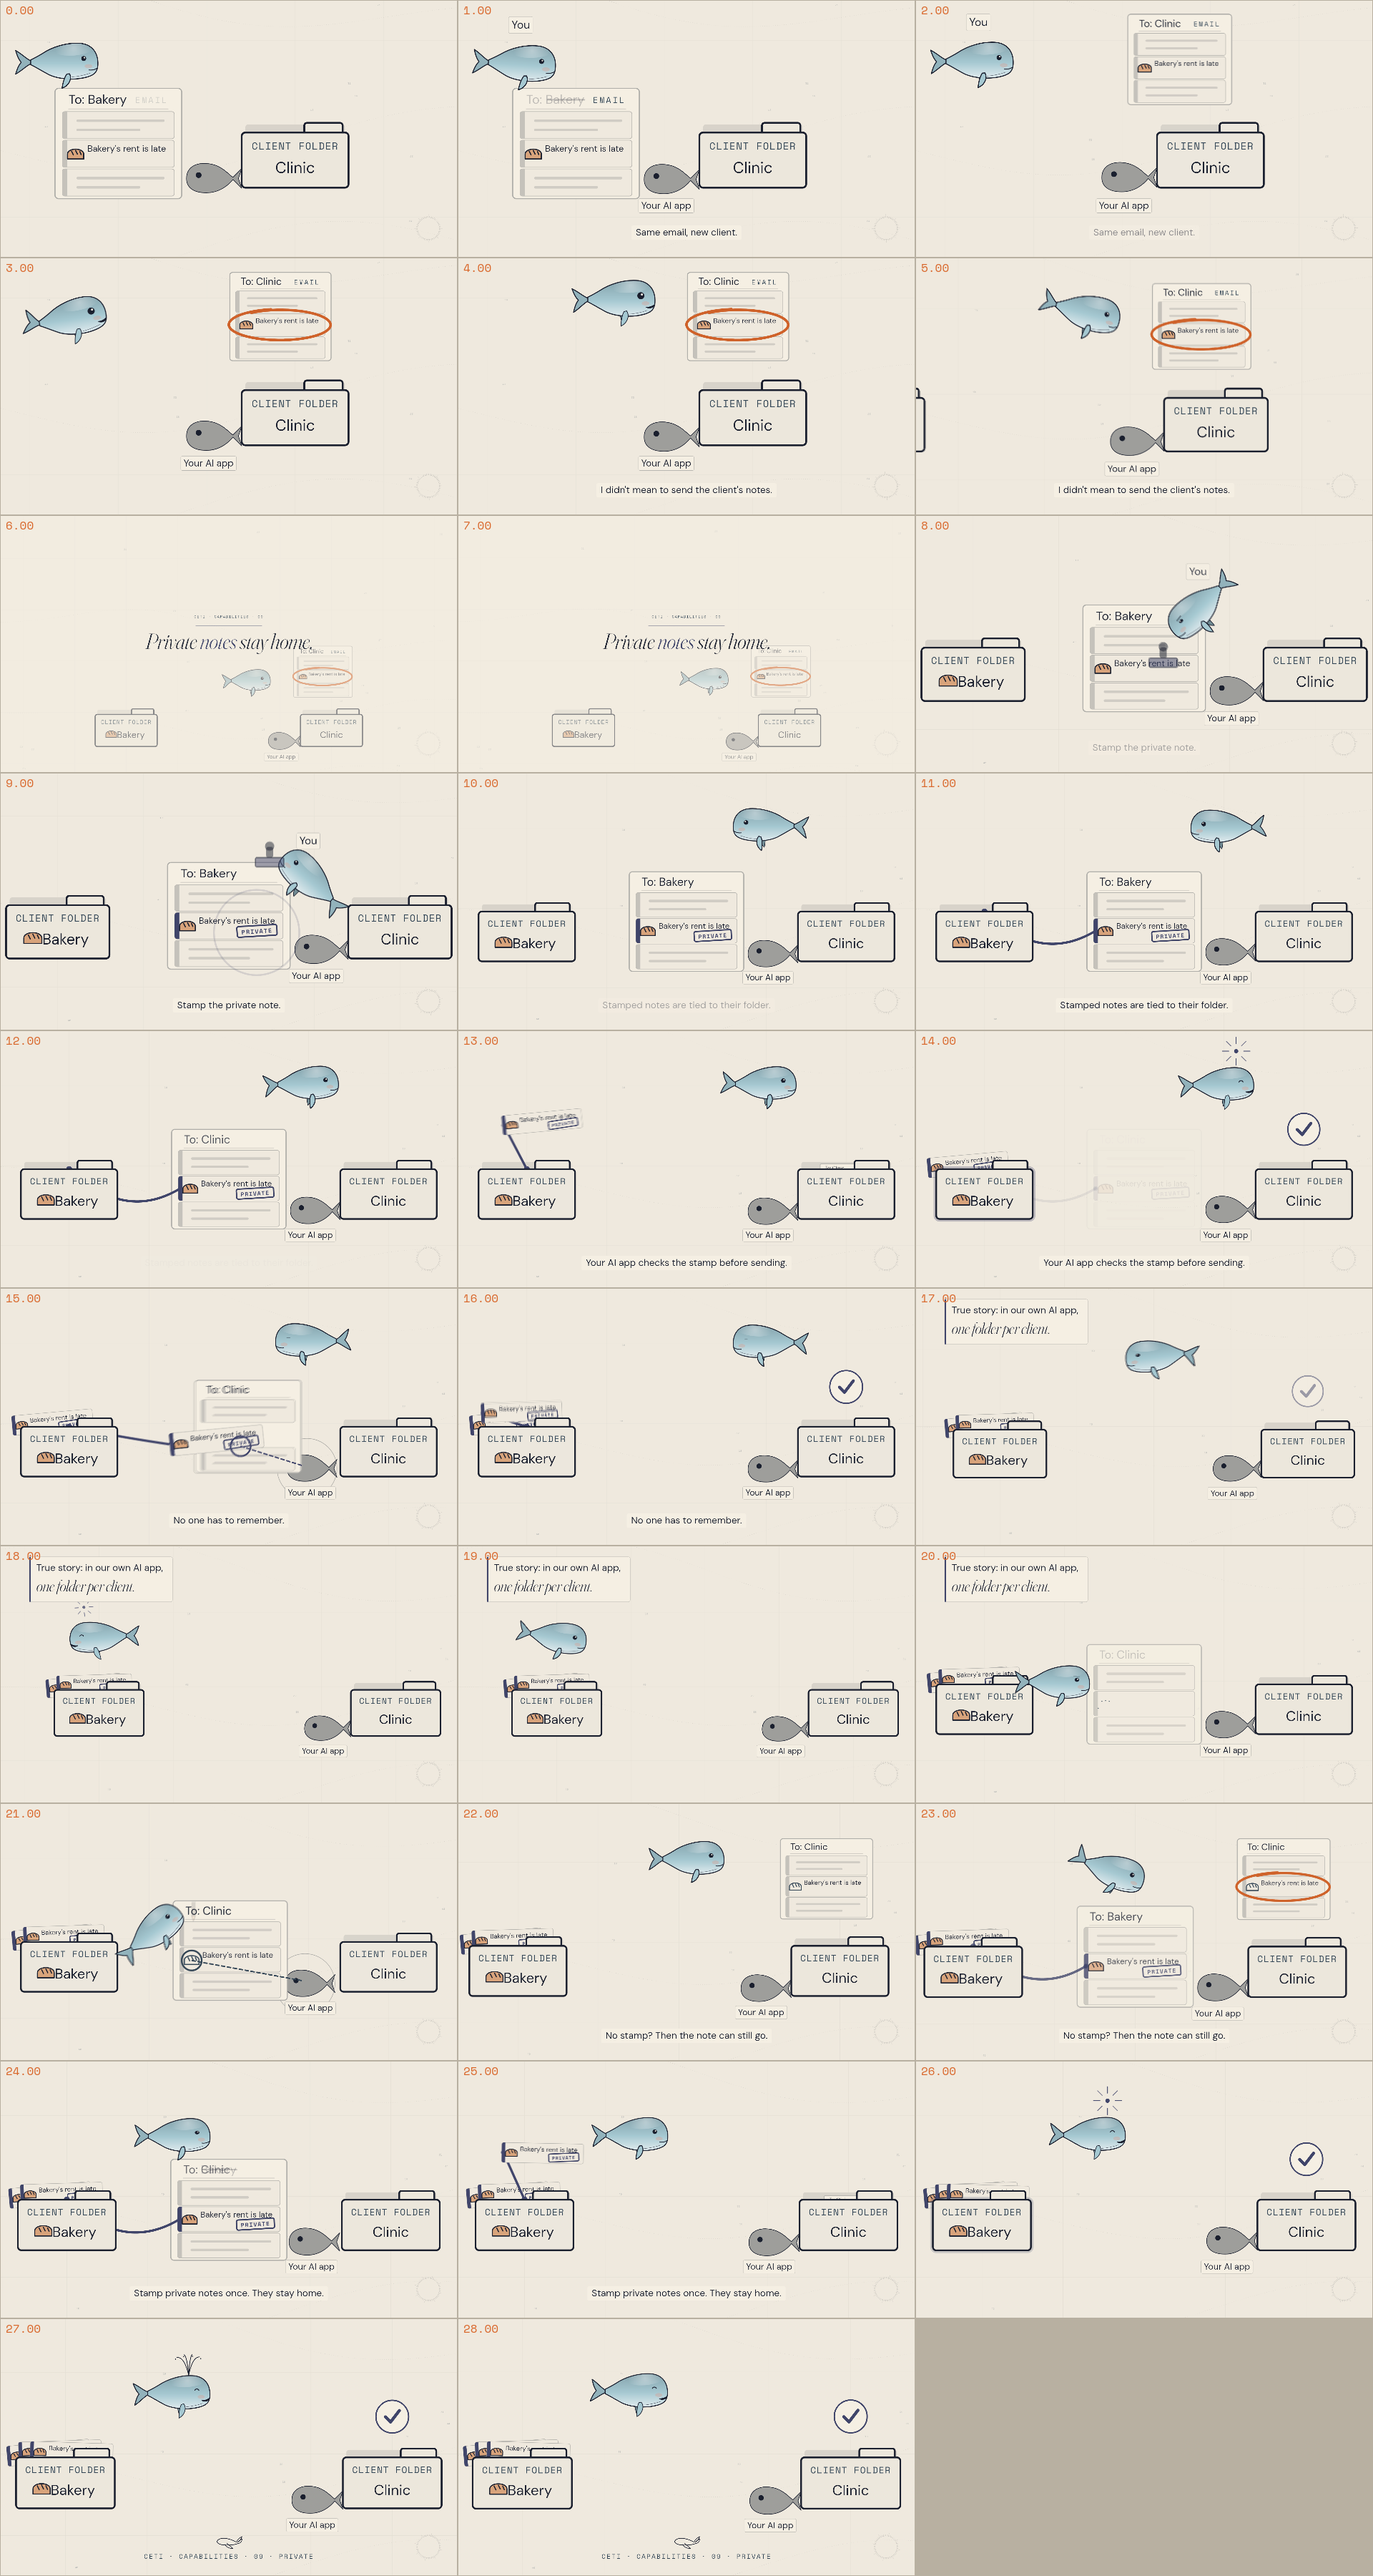
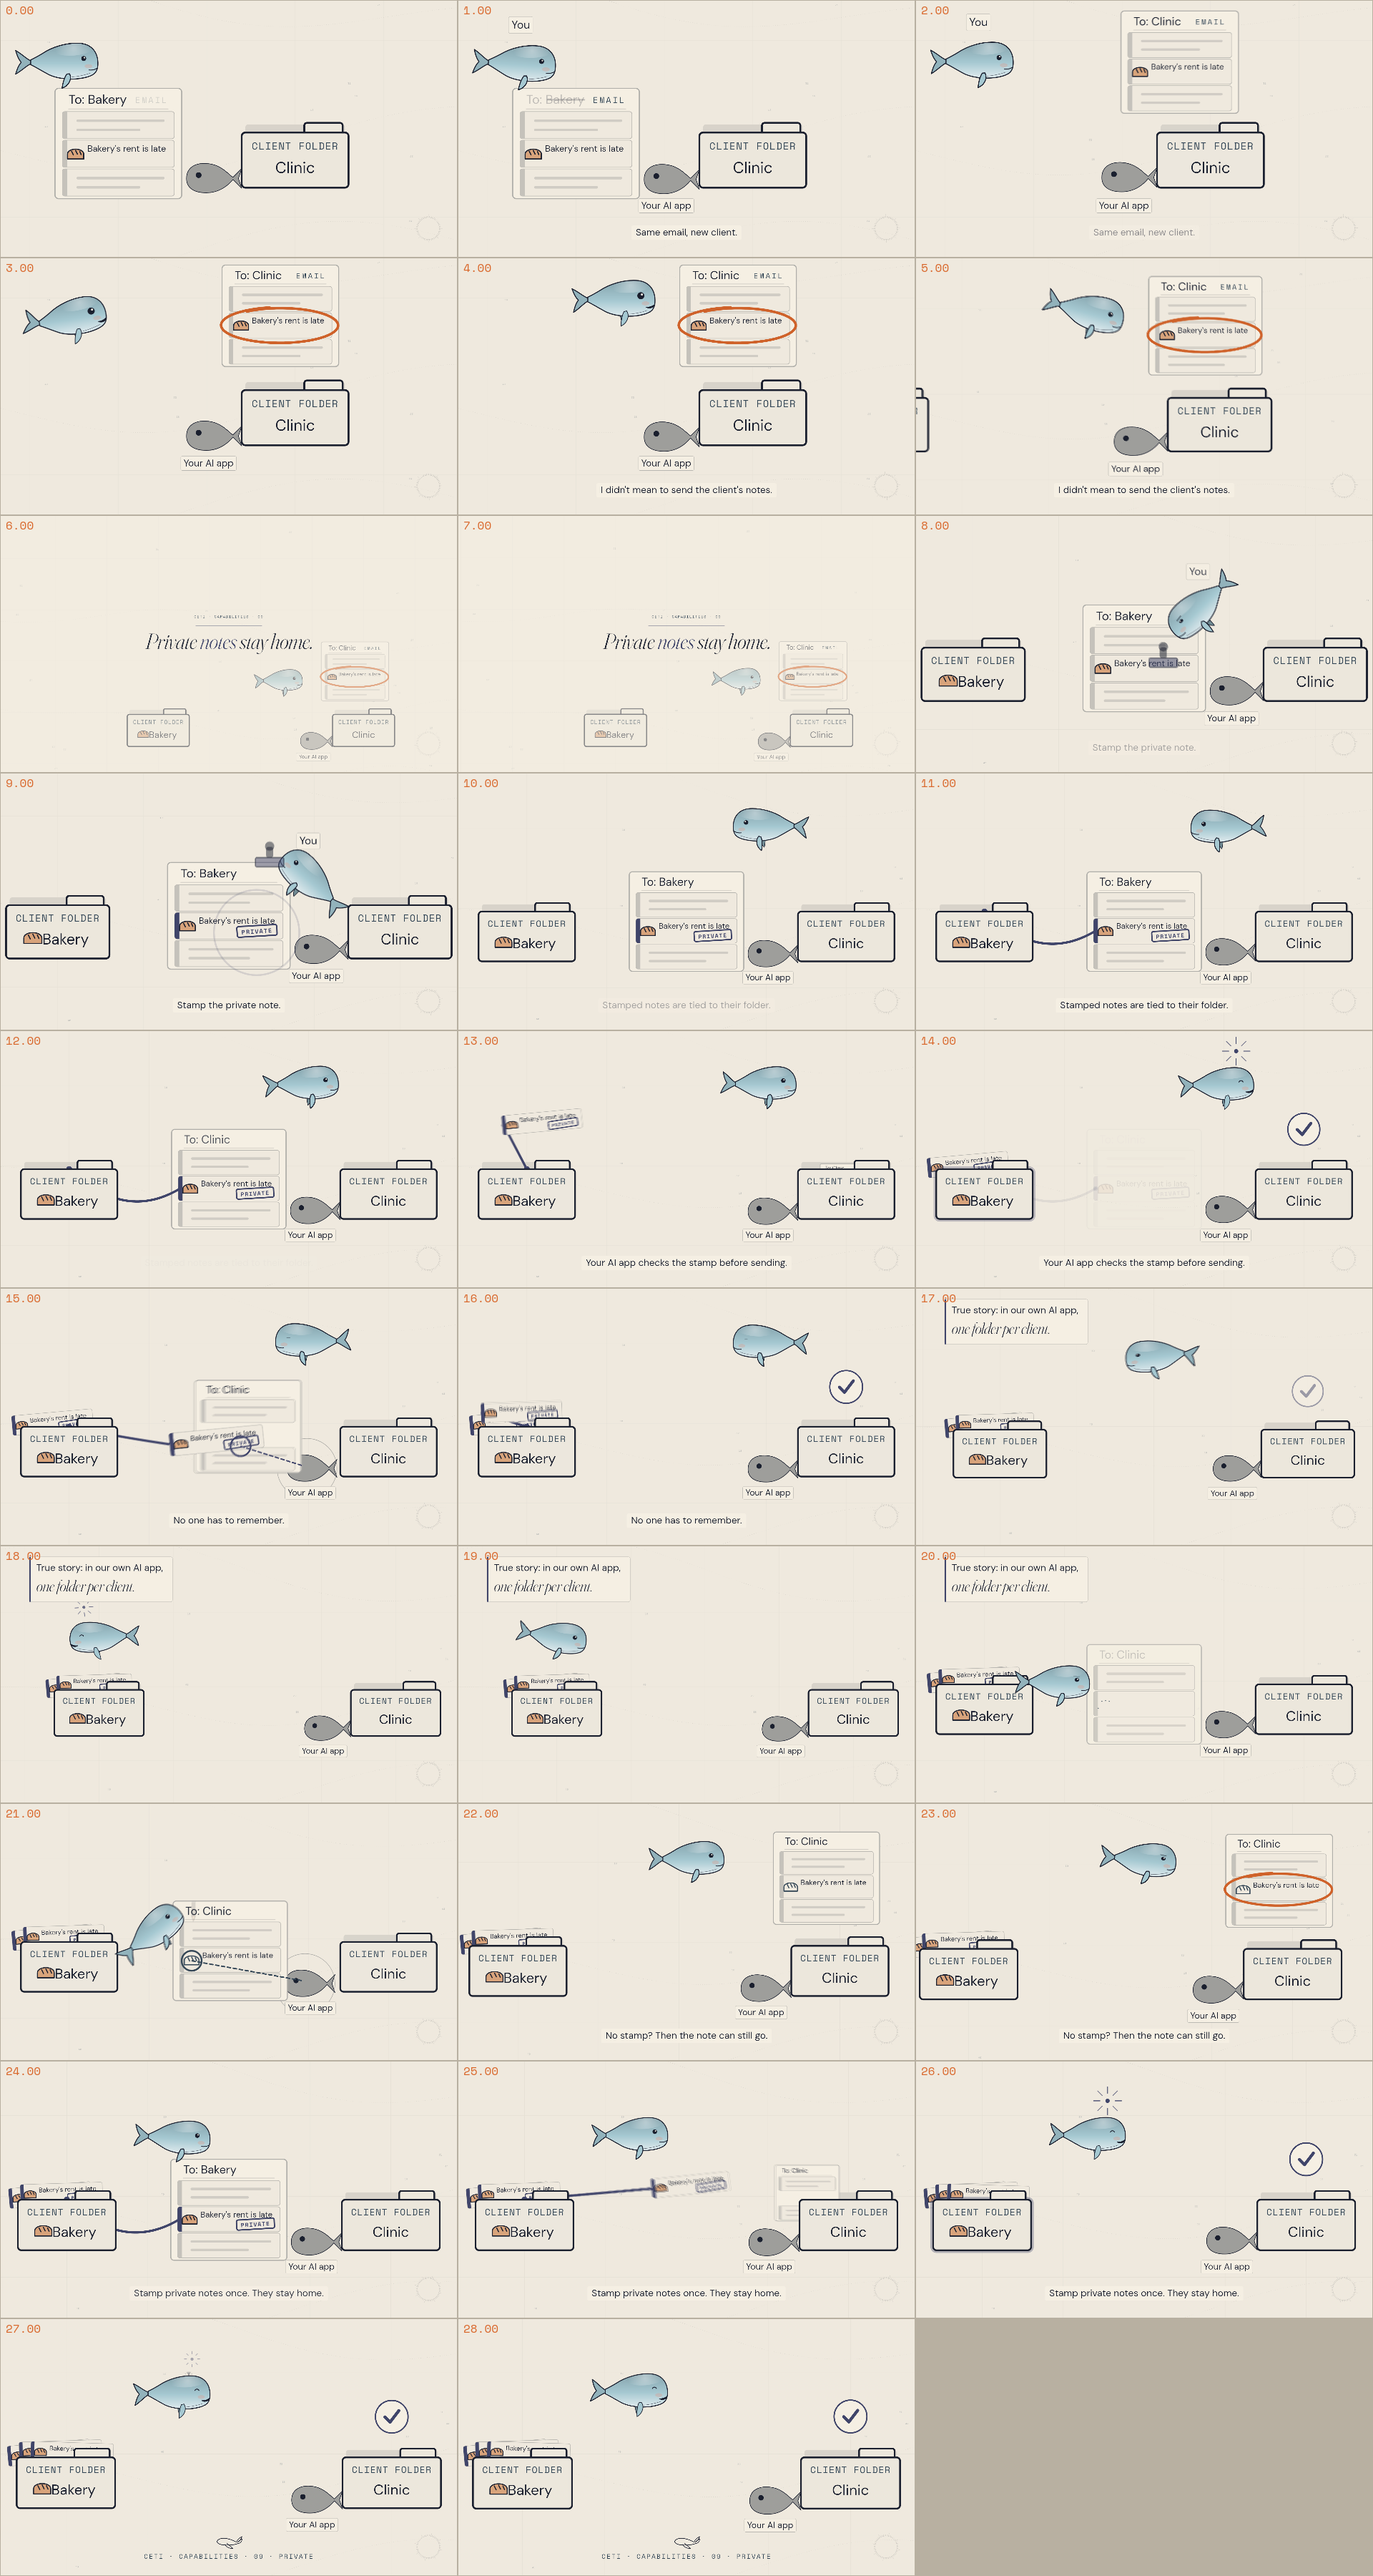
films/caps: counter v3 O2 PASS record; private v5 WIP
Claude-Session: https://claude.ai/code/session_01RCftyYG3bHQhecQi5siMfS

diff --git a/films/kh/caps/private/film.js b/films/kh/caps/private/film.js
@@ -6,7 +6,7 @@
 (function (root) {
 'use strict';
 const KH = root.KH, S = KH.SERIES, { CETI: C, W: WD, clamp, lerp, win, EASE, ramp, mix, rgba, text } = KH;
-const W = 1920, H = 1080, BPM = 120, DUR = 28.25;
+const W = 1920, H = 1080, BPM = 120, DUR = 28.65;
 const INK = C.navy, SOFT = C.slate, VIO = WD.violetBlue, RED = WD.englishRed, SAL = WD.ochraceousSalmon, GLAU = WD.lightGlaucousBlue;
 const BG = mix(C.paper, VIO, 0.06);                          // what SERIES.ground paints with tint: violet blue
 let ACC = VIO; for (let k = 0; k <= 1; k += 0.05) { ACC = mix(VIO, INK, k); if (KH.contrast(ACC, BG) >= 4.6 && KH.contrast(ACC, C.paper) >= 4.6) break; }
@@ -19,7 +19,7 @@ const DESK = { x: 0, y: 40 }, PW = 344, PH = 300, CY = [-50, 28, 106], CW = 304,
 const BAK = { x: -480, y: 70 }, CLI = { x: 480, y: 70 }, RIM = -60, BW = 290, BH = 150;
 const ANCH = { x: BAK.x, y: BAK.y + RIM };
 const SLOT = i => ({ x: BAK.x - 50 + 34 * i, y: BAK.y + RIM - 14 - 5 * (i % 2), r: -0.09 + 0.06 * i });
-const POP = { x: 440, y: -190 }, PSC = 0.8, TICK = { x: CLI.x, y: -110 }, POD = { x: 245, y: 135 }, PODS = 120, PODCOL = mix(C.slate, C.paper, 0.35);
+const POP = { x: 440, y: -192 }, PSC = 0.92, TICK = { x: CLI.x, y: -110 }, POD = { x: 245, y: 135 }, PODS = 120, PODCOL = mix(C.slate, C.paper, 0.35);
 const PODEYE = { x: POD.x - 27, y: POD.y - 9 };
 
 // ---------- the emails: each has a header (To:), three cards, a send time and a flight time ----------
@@ -29,8 +29,8 @@ const LET = [
   { id: 'L1', in: -1, send: 1.4, fly: 0.95, mid: 'bakery', hdr: [['To: Bakery', -1, 1.05, 0, 0.15], ['To: Clinic', 1.0, 7.65, 0.15, 0.4]], pop: [7.25, 7.65] },
   { id: 'L2', in: 7.55, send: 12.25, fly: 0.9, mid: 'sealed', stamp: 8.5, thread: [10.0, 10.7], hdr: [['To: Bakery', 7.65, 12.0, 0.3, 0.15], ['To: Clinic', 11.9, 13.2, 0.15, 0.1]] },
   { id: 'L3', in: 13.95, send: 14.85, fly: 0.8, mid: 'sealed', hdr: [['To: Clinic', 13.95, 15.7, 0.2, 0.1]] },
-  { id: 'L5', in: 19.85, send: 20.95, fly: 0.85, mid: 'scrawl', scrawl: [20.3, 20.8], hdr: [['To: Clinic', 19.9, 23.4, 0.3, 0.4]], pop: [23.0, 23.4] },
-  { id: 'L6', in: 22.85, send: 24.15, fly: 0.95, mid: 'sealed', hdr: [['To: Bakery', 22.85, 24.05, 0.15, 0.15], ['To: Clinic', 23.95, 25.15, 0.1, 0.1]] },
+  { id: 'L5', in: 19.85, send: 20.95, fly: 0.85, mid: 'scrawl', scrawl: [20.3, 20.8], hdr: [['To: Clinic', 19.9, 23.8, 0.3, 0.4]], pop: [23.4, 23.8] },
+  { id: 'L6', in: 23.25, send: 24.55, fly: 0.95, mid: 'sealed', hdr: [['To: Bakery', 23.25, 24.45, 0.15, 0.15], ['To: Clinic', 24.35, 25.55, 0.1, 0.1]] },
 ];
 let home = 0;
 for (const L of LET) { L.arr = L.send + L.fly;
@@ -44,7 +44,7 @@ const POPS = LET.filter(L => L.stay).map(L => ({ L, t: L.popT, circ: L.popT + 0.
 function letter(L, t) {   // email page transform: x, y, scale, alpha
   let a = L.in < 0 ? 1 : ramp(t, L.in, L.in + 0.3, EASE.warm);
   const u = ramp(t, L.send, L.arr, EASE.warm);
-  if (L.stay) { const x = lerp(DESK.x, POP.x, u), y = lerp(DESK.y, POP.y, u) - 70 * Math.sin(Math.PI * u), s = lerp(1, PSC, u);
+  if (L.stay) { const x = lerp(DESK.x, POP.x, u), y = lerp(DESK.y, POP.y, u) - 40 * Math.sin(Math.PI * u), s = lerp(1, PSC, u);
     return { x, y, s, a: a * (1 - ramp(t, L.pop[0], L.pop[1], EASE.rest)) }; }
   const x = lerp(DESK.x, CLI.x, u), y = lerp(DESK.y, CLI.y - 10, u) - 90 * Math.sin(Math.PI * u), s = lerp(1, 0.4, u);
   a *= 1 - ramp(t, L.arr - 0.1, L.arr + 0.04, EASE.rest);
@@ -69,11 +69,11 @@ const PERCH0 = [-150, -180], PERCHR = [235, -245], PRESS = [IMP.x + REACH, IMP.y
   SCRAWL = [DESK.x - 116 - REACH, DESK.y + CY[1] - 60], WATCH = [40, -250], BAKP = [-480, -160];
 const K = [[0, ...PERCH0], [2.85, ...PERCH0], [3.7, 120, -235], [4.85, 120, -235], [5.65, 100, -150], [7.8, 100, -150],
   [8.25, ...HOVER], [8.5, ...PRESS], [8.8, ...HOVER], [9.55, ...PERCHR], [16.55, ...PERCHR], [17.75, ...BAKP], [18.95, ...BAKP],
-  [19.95, ...SCRAWL], [20.85, ...SCRAWL], [21.55, ...WATCH], [22.6, ...WATCH], [23.35, ...PERCH0], [DUR + 1, ...PERCH0]];
+  [19.95, ...SCRAWL], [20.85, ...SCRAWL], [21.55, ...WATCH], [23.0, ...WATCH], [23.75, ...PERCH0], [DUR + 1, ...PERCH0]];
 function herm(P, t) { const n = P.length; if (t <= P[0][0]) return { x: P[0][1], y: P[0][2] }; if (t >= P[n - 1][0]) return { x: P[n - 1][1], y: P[n - 1][2] };
   let i = 0; while (P[i + 1][0] < t) i++; const p1 = P[i], p2 = P[i + 1], u = (t - p1[0]) / (p2[0] - p1[0]), A2 = 2 * u * u * u - 3 * u * u + 1, C2 = 1 - A2;
   return { x: A2 * p1[1] + C2 * p2[1], y: A2 * p1[2] + C2 * p2[2] }; }
-const NODS = [0.95, 11.55, 17.95, 18.35, 23.5];
+const NODS = [0.95, 11.55, 17.95, 18.35, 23.9];
 function wworld(t) { const p = herm(K, t), q = herm(K, t + 0.01), sp = Math.hypot(q.x - p.x, q.y - p.y) * 100, still = 1 - clamp(sp / 150);
   let dip = 0; for (const s of NODS) { const d = t - s; if (d > 0 && d < 0.35) dip = Math.max(dip, 7 * Math.sin(Math.PI * d / 0.35)); }
   const wig = win(t, 20.3, 20.8, 0.05, 0.05) * 7 * Math.sin((t - 20.3) * 30);
@@ -86,17 +86,17 @@ function facing(t) { let f = 1; for (const [a, to] of TURNS) f = lerp(f, to, ram
 function nose(t) { const p = wworld(t), a = heading(t), f = facing(t); return { x: p.x + f * (REACH * Math.cos(a) - 4 * Math.sin(a)), y: p.y + REACH * Math.sin(a) + 4 * Math.cos(a) }; }
 
 // ---------- camera ----------
-const FELT = { x: 300, y: 0, z: 1.55 }, TITLE = { x: 0, y: -320, z: 0.9 }, MID = { x: 0, y: -20, z: 1.4 }, STAMP = { x: 0, y: 0, z: 1.5 },
+const FELT = { x: 300, y: 0, z: 1.55 }, TITLE = { x: -150, y: -320, z: 0.9 }, MID = { x: 0, y: -20, z: 1.4 }, STAMP = { x: 0, y: 0, z: 1.5 },
   CASE = { x: -60, y: -40, z: 1.3 }, LIM = { x: 40, y: -40, z: 1.42 }, PAY = { x: 0, y: -20, z: 1.42 };
 function cam(t) { let s = { ...FELT };
   const go = (a, b, T, e) => { const k = ramp(t, a, b, e); s = { x: lerp(s.x, T.x, k), y: lerp(s.y, T.y, k), z: lerp(s.z, T.z, k) }; };
   go(4.85, 5.7, TITLE, EASE.rest); go(6.95, 8.05, STAMP, EASE.warm); go(9.05, 9.85, MID, EASE.warm); go(16.45, 17.55, CASE, EASE.rest);
-  go(19.15, 19.95, MID, EASE.warm); go(21.55, 22.75, LIM, EASE.warm); go(22.8, 23.5, PAY, EASE.warm);
-  return { x: s.x, y: s.y, z: s.z + 0.02 * ramp(t, 25.25, DUR, EASE.rest), ax: 960, ay: 540 }; }
+  go(19.15, 19.95, MID, EASE.warm); go(21.55, 22.75, LIM, EASE.warm); go(23.2, 23.9, PAY, EASE.warm);
+  return { x: s.x, y: s.y, z: s.z + 0.02 * ramp(t, 25.65, DUR, EASE.rest), ax: 960, ay: 540 }; }
 const wpos = t => wworld(t);
 
 // ---------- text ----------
-const T0 = 5.4, T_LOCK = 26.05;
+const T0 = 5.4, T_LOCK = 26.45;
 const cap = (id, inn, out, text) => ({ id, kind: 'caption', in: inn, out, fi: 0.25, fo: 0.2, text });
 const READ = [
   cap('felt1', 0.25, 2.1, 'Same email, new client.'),
@@ -112,8 +112,8 @@ const READ = [
   cap('remember', 14.37, 16.45, 'No one has to remember.'),
   { id: 'story', kind: 'label', card: true, in: 16.5, out: 20.5, fi: 0.25, fo: 0.25, text: 'True story: in our own AI app,' },
   { id: 'card', kind: 'card', card: true, in: 16.5, out: 20.5, fi: 0.25, fo: 0.25, text: 'one folder per client.', src: 'https://app.notion.com/p/3fbd50cfaf9381048ffaecd94c9f8264' },
-  cap('limit', 21.0, 23.3, 'No stamp? Then the note can still go.'),
-  cap('belief', 23.4, T_LOCK - 0.05, 'Stamp private notes once. They stay home.'),
+  cap('limit', 21.0, 23.7, 'No stamp? Then the note can still go.'),
+  cap('belief', 23.8, T_LOCK - 0.05, 'Stamp private notes once. They stay home.'),
   { id: 'ai1', kind: 'label', in: 0.1, out: DUR, fi: 0.3, fo: 0, text: 'Your AI app' },
   { id: 'lockup', kind: 'label', in: T_LOCK, out: DUR, fi: 0.45, fo: 0, text: 'CETI · Capabilities · 09 · Private' },
   { id: 'boxB', kind: 'label', in: 0, out: DUR, fi: 0.01, fo: 0, text: 'Client folder Bakery' },
@@ -236,17 +236,17 @@ function drawFrame(c, t) {
 
   // the little whale ("you"), with the rubber stamp at its nose during the stamping
   { const p = wworld(t), ang = heading(t), v = wvel(t), sp = Math.hypot(v.x, v.y), moving = clamp(sp / 400), f = facing(t);
-    let blink = 0; for (const k of [1.8, 6.55, 10.55, 13.35, 16.95, 20.85, 23.95, 26.75]) blink = Math.max(blink, 1 - Math.abs(t - k) / 0.07);
+    let blink = 0; for (const k of [1.8, 6.55, 10.55, 13.35, 16.95, 20.85, 24.35, 27.15]) blink = Math.max(blink, 1 - Math.abs(t - k) / 0.07);
     blink = Math.max(blink, win(t, 14.4, 16.4, 0.15, 0.15));                    // eyes shut: not watching, the box does the work
     let squash = 0; for (const k of [8.5]) { const d = t - k; if (d >= 0 && d < 0.32) squash = Math.max(squash, 0.13 * (1 - EASE.glaser(d / 0.32))); }
-    const focus = Math.max(win(t, 7.85, 8.85, 0.2, 0.2), win(t, 19.95, 20.85, 0.15, 0.15), win(t, 22.3, 23.0, 0.2, 0.2) * 0.6);
+    const focus = Math.max(win(t, 7.85, 8.85, 0.2, 0.2), win(t, 19.95, 20.85, 0.15, 0.15), win(t, 22.3, 23.4, 0.2, 0.2) * 0.6);
     const eye = 1 + 0.4 * win(t, 2.85, 4.5, 0.06, 0.4) + 0.35 * win(t, 22.1, 22.8, 0.06, 0.3);
     const spark = Math.max(win(t, LANDS[0].t, LANDS[0].t + 0.9, 0.1, 0.4), win(t, 17.95, 18.65, 0.1, 0.3) * 0.7, win(t, LANDS[LANDS.length - 1].t, LANDS[LANDS.length - 1].t + 1.3, 0.12, 0.5));
     const delight = (t > LANDS[0].t && t < LANDS[0].t + 0.8) || (t > 17.9 && t < 18.65) || t > LANDS[LANDS.length - 1].t + 0.05 ? 1 : 0;
     c.save(); c.translate(X(p.x), Y(p.y)); c.scale(f, 1);
     KH.drawWhale(c, { x: 0, y: 0, ang, scale: WS * z, L: 1, tail: Math.sin(t * (moving > 0.3 ? 11 : 3)) * lerp(0.12, 0.34, moving), fin: Math.sin(t * 6 + 1.3) * lerp(0.15, 0.3, moving),
       blink, squash, focus: delight ? 0 : focus, eye, spark, sparkColor: VIO, delight, blush: 0.6, mouth: delight ? 0.4 : 0.45 * win(t, 2.9, 4.2, 0.06, 0.3) + 0.3 * win(t, 22.1, 22.8, 0.06, 0.3),
-      spray: win(t, 26.55, 27.65, 0.2, 0.6), sw: 3.2 });
+      spray: win(t, 26.95, 28.05, 0.2, 0.6), sw: 3.2 });
     c.restore();
     const ya = Math.max(RA(t, 'you'), RA(t, 'you2')); if (ya > 0) S.chip(c, 'You', X(p.x), Y(p.y - 98), { f: 'sans', size: Math.round(30 * z), col: INK, a: ya, align: 'center', pad: 12, border: CARDEDGE });
     const pa = win(t, 20.0, 21.05, 0.15, 0.2); if (pa > 0) { const n = nose(t), nx = X(n.x), ny = Y(n.y), k = z;   // a pencil: you write the note by hand
@@ -280,7 +280,7 @@ function cues() {
     hdrSwap: LET.filter(L => L.hdr.length > 1).map(L => L.hdr[0][2] - 0.45), send: LET.map(L => L.send), arrive: LET.map(L => L.arr),
     pop: POPS.map(P => P.t), circle: POPS.map(P => P.circ), stamp: 8.5, thread: [10.0, 10.7], taut: LET.filter(L => L.taut).map(L => L.taut),
     home: LANDS.map(l => l.t), ok: OKS.map(o => o.t), sleep: 14.4, wake: 16.4, pat: [17.95, 18.35], scrawl: [20.3, 20.8], podSend: LET.map(L => L.send), scan: SCANS.map(s => s.t),
-    spark: [LANDS[0].t, LANDS[LANDS.length - 1].t], card: RD('card').in, limit: POPS[1].t, notThis: RD('limit').in, belief: RD('belief').in, lockup: T_LOCK, spray: 26.55,
+    spark: [LANDS[0].t, LANDS[LANDS.length - 1].t], card: RD('card').in, limit: POPS[1].t, notThis: RD('limit').in, belief: RD('belief').in, lockup: T_LOCK, spray: 26.95,
     tags: { consequence: [POPS[0].circ], focus: [POPS[0].circ, 8.5, LANDS[0].t, LANDS[LANDS.length - 1].t], mech: [8.5, 10.0, LET[1].taut, LANDS[0].t], limit: [POPS[1].circ], callback: [LANDS[LANDS.length - 1].t] } }; }
 const CONTRAST = [['captions / card main (ink on paper chip)', INK, C.paper], ['title (ink on chart ground)', INK, BG], ['title accent on ground', ACC, BG],
   ['title accent on veiled ground (paper)', ACC, C.paper], ['eyebrow / lockup (slate on ground)', SOFT, BG], ['card lines (ink on paper)', INK, C.paper],
